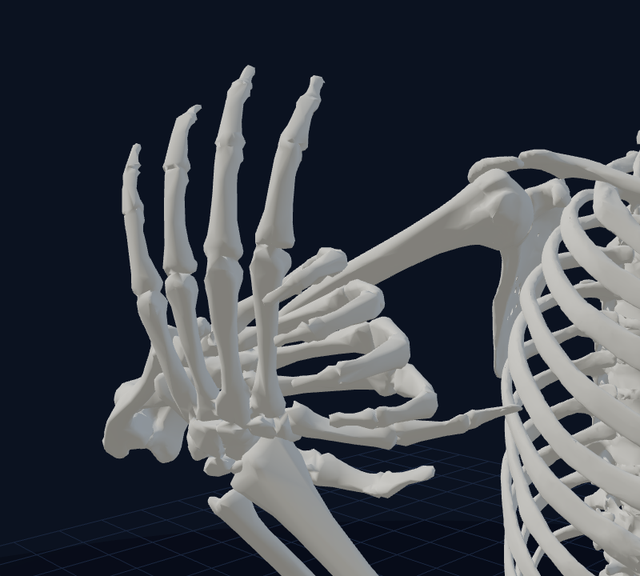
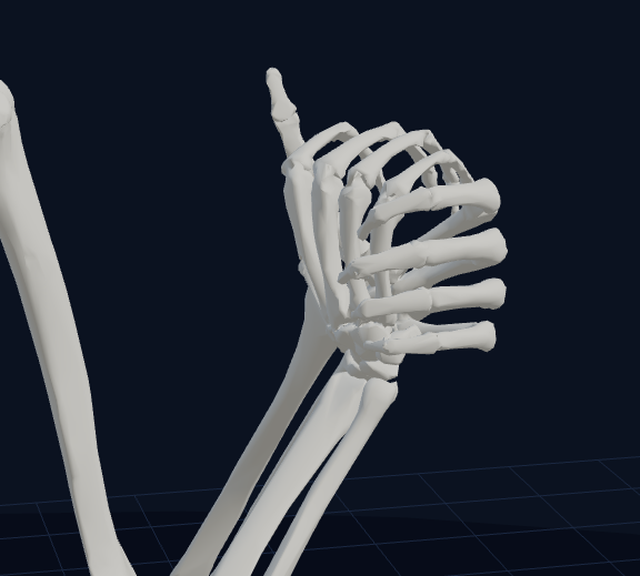
feat(#179): la prise d'après la photo de référence — pouce du guideur vers le ciel, ses doigts sur le tranchant de la main de la suiveuse, dressée
Même emboîtement (quatre doigts de la suiveuse entre le pouce et l'index du guideur), tourné d'un quart de tour
dans le plan des paumes : GRIP.upright.lift, doigts du guideur refermés (second temps de la sonde). Os au contact
sans se traverser dans les cinq figures ; poignets : guideur 29°, suiveuse 53° sur place. Dossier refilmé.

diff --git a/src/upperBody.ts b/src/upperBody.ts
@@ -103,10 +103,13 @@ interface Arm {
  * line to his index, towards where her forearm comes from (rad). */
 export const GRIP = { shift: 0.012, gap: 0.004, wrist: 1.0, swivel: 0.7,
   /** Hands held up at the couple's side (#179, candidate `?essai=mainsCote`; owner, 23 November 2026).
-   * The leader's hand points to the sky; `palm`: where his palm faces, in his chest frame (halfway between his
-   * right and the follower). The follower's hand lies across his palm, her four fingers between his thumb and
-   * his index, closed around the web of his thumb, palm against palm, her thumb under his: no bone goes through
-   * another (found by search on the two hands' bones, scripts/mesure_essai_mains.mjs measures it).
+   * As in a ballroom hold (reference photograph, see the election's README): the leader's thumb points to the sky,
+   * his fingers go forwards, raised by `lift` (rad), and close in one block round the edge of the follower's hand,
+   * onto its back; `palm`: where his palm is asked to face, in his chest frame (the palm's normal leans 9° towards
+   * the fingers: measured, it faces halfway between his right and the follower). The follower's hand stands up
+   * against his palm, her four fingers between his thumb and his index, closed around the web of his thumb, palm
+   * against palm, her thumb under his: no bone goes through another (found by search on the two hands' bones,
+   * scripts/search_prise_mains.mjs; scripts/mesure_essai_mains.mjs measures it).
    * In the frame of his hand (R towards his thumb, U along his fingers, N out of his palm): `across`: her
    * fingers from U towards R (rad); `at`: her palm's centre from his, along R, U, N (m); `roll`, `pitch`: her
    * hand around her own fingers, then her fingers into his palm (rad). `his`, `hers`: the two hands' shapes.
@@ -114,8 +117,9 @@ export const GRIP = { shift: 0.012, gap: 0.004, wrist: 1.0, swivel: 0.7,
    * `drop`: how far under the line of her hand the follower's elbow tends (m); `wrist`: how far her wrist may bend
    * in this hold (rad): the hands are close to both bodies, her forearm comes steeply to her hand. */
   upright: {
-    palm: [-1, 0, 1] as V3, across: 1.373, at: [0.013, -0.01, 0.025] as V3, roll: 0.12, pitch: -0.116,
-    his: { fingers: [0.14, 0.16, 0.1], thumb: [1.55, 0.05, 0.1] } as HandShape,
+    palm: [-1, 0, 0.73] as V3, across: 1.373, at: [0.013, -0.01, 0.025] as V3, roll: 0.12, pitch: -0.116,
+    lift: 0.5,
+    his: { fingers: [1.35, 0.437, 0.913], thumb: [1.55, 0.05, 0.1] } as HandShape,
     hers: { fingers: [1, 1.011, 0.306], thumb: [0.459, 0, 0.573] } as HandShape,
     elbow: [0.25, -1, 0.1] as V3, drop: 0.1, wrist: 1.25,
   } };
@@ -259,9 +263,12 @@ export class UpperBody {
         const along = his.radial.clone().applyAxisAngle(facing, swivel);
         posed = this.take(this.arms[s], his.palm.clone().addScaledVector(his.radial, GRIP.shift).addScaledVector(his.normal, GRIP.gap), facing, along, rigElbow);
       } else if (upright && !follower) {
-        // The leader's hand: the palm on the rig's point, facing between his right and her, the fingers to the sky.
+        // The leader's hand: the palm on the rig's point, facing between his right and her; his thumb to the sky, his
+        // fingers forwards (a left hand: fingers = thumb's side × palm's normal), raised by `lift`.
         const facing = new THREE.Vector3(...GRIP.upright.palm).transformDirection(r.chest.matrixWorld).setY(0).normalize();
-        posed = this.take(this.arms[s], target, facing, new THREE.Vector3(0, 1, 0), low());
+        const sky = new THREE.Vector3(0, 1, 0), lift = GRIP.upright.lift;
+        const along = new THREE.Vector3().crossVectors(sky, facing).normalize().multiplyScalar(Math.cos(lift)).addScaledVector(sky, Math.sin(lift));
+        posed = this.take(this.arms[s], target, facing, along, low());
       } else if (hold === "free" && folded) {
         // #182: the rig's frame, alone, folds its raised forearm flat on the arm, the hand on the shoulder. No elbow
         // does that: the forearm rises from the rig's elbow, as the frame means it, the palm inwards.

diff --git a/src/essais.ts b/src/essais.ts
@@ -13,9 +13,10 @@
 export const ESSAIS = {
   /** Témoin : ne change rien. Sert à filmer le comportement actuel image par image hors du mode paire. */
   temoin: "témoin : comportement actuel",
-  /** #179 : les mains jointes tenues sur le côté du couple, leur milieu à hauteur d'épaule ; main du guideur vers le
-   * ciel, paume à mi-chemin entre sa droite et la suiveuse ; main de la suiveuse emboîtée en travers, ses quatre
-   * doigts entre le pouce et l'index du guideur (précisions du 23 novembre 2026). */
+  /** #179 : les mains jointes tenues sur le côté du couple, leur milieu à hauteur d'épaule ; pouce du guideur vers le
+   * ciel, paume à mi-chemin entre sa droite et la suiveuse, ses doigts refermés sur le tranchant de la main de la
+   * suiveuse ; main de la suiveuse dressée, ses quatre doigts entre le pouce et l'index du guideur (précisions du
+   * 23 novembre 2026, photo de référence d'une tenue de salon). */
   mainsCote: "mains jointes sur le côté du couple, leur milieu à hauteur d'épaule, emboîtées",
   /** #179 : les mains jointes sur le côté du couple, plus bas et plus près, coudes détendus. */
   mainsBasses: "mains jointes sur le côté du couple, plus bas",

diff --git a/docs/elections/2026-11-22-mains/README.md b/docs/elections/2026-11-22-mains/README.md
@@ -23,34 +23,40 @@ Position fermée : bustes face à face, pieds proches. Dossier ouvert le 22 nove
 Après la première planche (B était alors 6 cm sous les épaules) :
 
 - **Place** : les mains se lèvent légèrement au-dessus de l'épaule, leur milieu à hauteur d'épaule ; la paume du
-  guideur regarde à mi-chemin entre sa droite et la suiveuse, sa main pointe vers le ciel. Place validée sur gros plans.
+  guideur regarde à mi-chemin entre sa droite et la suiveuse. Place validée sur gros plans.
 - **Emboîtement** : les doigts de chaque main, de l'index à l'auriculaire, font un seul bloc, comme dans une moufle :
   rien ne passe entre eux. Les quatre doigts de la suiveuse passent entre le pouce et l'index du guideur, paume contre
   paume ; son pouce reste sous celui du guideur. Ni os ni muscles ne se traversent.
+- **Référence** : une [photo d'une tenue de salon, Wikimedia Commons](https://commons.wikimedia.org/wiki/File:Ballroom_dance_exhibition.jpg), vue de derrière la main de la danseuse. Sa main est dressée, ses doigts passés
+  entre le pouce et l'index du danseur ; la main du danseur est en travers, pouce vers le haut, ses quatre doigts
+  refermés sur le tranchant de la main de la danseuse, jusque sur le dos de sa main.
 
-Fait dans le candidat B (`?essai=mainsCote`) : la main de la suiveuse est en travers de celle du guideur, ses quatre
-doigts refermés autour de la palmure de son pouce. Les constantes viennent d'une recherche sur les os des deux mains
+Fait dans le candidat B (`?essai=mainsCote`) : le pouce du guideur pointe vers le ciel, ses doigts vont vers l'avant,
+à 29° au-dessus de l'horizontale, et se referment d'un seul bloc sur le tranchant de la main de la suiveuse ; la main
+de la suiveuse est dressée contre sa paume, ses quatre doigts refermés autour de la palmure de son pouce. Les deux
+mains gardent l'emboîtement trouvé le matin (la main de la suiveuse à 79° des doigts du guideur) ; l'ensemble a tourné
+d'un quart de tour dans le plan des paumes. Les constantes viennent d'une recherche sur les os des deux mains
 (`scripts/search_prise_mains.mjs`). Mesures (`ESSAI=mainsCote node scripts/mesure_essai_mains.mjs`) :
 
 | | Sur place | Dans les figures |
 |---|---|---|
-| Milieu des mains, par rapport à la moyenne des deux épaules | 0,6 cm dessous ; haut des doigts du guideur 9 cm au-dessus | 0,6 à 0,8 cm dessous |
-| Paume du guideur, par rapport à sa droite | 45° | 43° à 46° |
-| Doigts du guideur, par rapport à la verticale | 0° | jusqu'à 10° (sorties) |
-| Main de la suiveuse, par rapport aux doigts du guideur | en travers, à 79° vers son pouce | 69° à 79° |
-| Paumes | face à face à 7° près, centres à 3 cm | à 2° à 15° près |
-| Os des deux mains et des avant-bras (rayons d'os ôtés) | au contact, sans se traverser (jeu 0 cm) | de même, sauf dans la sortie fille : 0,3 cm de recouvrement par instants |
-| Poignets | guideur 46° à 48° ; suiveuse 61° à 63° | suiveuse jusqu'à 72°, la limite de cette prise |
+| Milieu des mains, par rapport à la moyenne des deux épaules | 1,6 cm dessous ; haut des doigts 2,8 cm au-dessus | 1,6 à 2 cm dessous |
+| Paume du guideur, par rapport à sa droite | 45° | 39° à 46° |
+| Doigts du guideur, par rapport à la verticale | 61° (29° au-dessus de l'horizontale), pouce vers le ciel | 57° à 61° |
+| Main de la suiveuse, par rapport à la verticale | 19° | 19° à 24° |
+| Paumes | face à face à 7° près, centres à 3 cm | à 3° à 7° près |
+| Os des deux mains et des avant-bras (rayons d'os ôtés) | au contact, sans se traverser (jeu 0 cm) | de même dans les cinq figures |
+| Poignets | guideur 29° ; suiveuse 53° | guideur 13° à 57° ; suiveuse 35° à 72°, la limite de cette prise |
 
 Pour comparaison, dans les attitudes A et C (prise du 22 novembre, inchangée) les os des deux mains se recouvrent de
 1,1 à 1,6 cm.
 
-L'emboîtement de près, vu de derrière la main du guideur (os, puis muscles) :
+L'emboîtement de près, vu de derrière la main de la suiveuse, comme sur la photo de référence (os, puis muscles) :
 
 | ![os](mains-B-emboitement-os.png) | ![muscles](mains-B-emboitement-muscles.png) |
 |---|---|
 
-Mêmes images : adresse de B avec `beat=2`, `campos=0.637,1.32,-0.187&camtgt=0.34,1.27,0.11`, `muscles=0` ou `1`.
+Mêmes images : adresse de B avec `beat=2`, `campos=0.1,1.5,1.05&camtgt=0.33,1.27,0.11`, `muscles=0` ou `1`.
 
 ## Trois attitudes filmables
 
@@ -62,7 +68,7 @@ inertes sans le paramètre : l'application ne change pas. Images refaites le 23 
 |---|---|---|
 | ![A](mains-A-entre-les-poitrines.gif) | ![B](mains-B-sur-le-cote.gif) | ![C](mains-C-sur-le-cote-plus-bas.gif) |
 | ![A](mains-A-entre-les-poitrines.png) | ![B](mains-B-sur-le-cote.png) | ![C](mains-C-sur-le-cote-plus-bas.png) |
-| Entre les deux épaules, 6 cm sous elles : mains cachées entre les cages thoraciques, coudes repliés jusqu'à 27°. | 20 cm vers l'extérieur du couple, le milieu des mains à hauteur d'épaule : main du guideur dressée, paume à mi-chemin entre sa droite et la suiveuse ; main de la suiveuse emboîtée en travers, ses quatre doigts entre son pouce et son index. | 14 cm vers l'extérieur, 14 cm plus bas : mains à hauteur de taille, avant-bras presque horizontaux, coudes détendus. |
+| Entre les deux épaules, 6 cm sous elles : mains cachées entre les cages thoraciques, coudes repliés jusqu'à 27°. | 20 cm vers l'extérieur du couple, le milieu des mains à hauteur d'épaule : pouce du guideur vers le ciel, paume à mi-chemin entre sa droite et la suiveuse, ses doigts refermés sur le tranchant de la main de la suiveuse ; main de la suiveuse dressée, ses quatre doigts entre son pouce et son index. | 14 cm vers l'extérieur, 14 cm plus bas : mains à hauteur de taille, avant-bras presque horizontaux, coudes détendus. |
 
 La caméra est du côté des mains jointes : le guideur est à droite de l'image, la suiveuse à gauche. Les étiquettes de
 rôle du bas de l'image, fixes, diraient l'inverse : elles sont rognées.
@@ -99,5 +105,5 @@ l'emboîtement décrit plus haut. Les doigts ne se serrent pas latéralement.
 
 - Quelles attitudes garder (A, B, C, d'autres), et laquelle par défaut en kizomba. Question posée le 23 novembre 2026
   avec ces images ; proposition de l'agent : B par défaut, C gardée comme attitude, A retirée. Le propriétaire a
-  corrigé B (ci-dessus : place, puis emboîtement) ; le choix de l'attitude par défaut reste à confirmer.
+  corrigé B (ci-dessus : place, emboîtement, puis photo de référence) ; le choix de l'attitude par défaut reste à confirmer.
 - La prise, une fois posée : à juger sur des gros plans.

diff --git a/docs/regles-proprietaire.md b/docs/regles-proprietaire.md
@@ -60,7 +60,7 @@ seuil chiffré : ils n'y figurent pas.
 | R19 | Cadre leader/suiveur : points de contact (avant-bras, biceps, omoplate, bassin, aisselle, coude, épaule, plexus) et intentions de guidage | Mains qui se rejoignent, main D du leader sur l'omoplate du suiveur, contraintes de contact | [cadre](cadre/spec-implementation.md) (#40) | oui pour les bras (#77 : mains sur l'omoplate et mains jointes, IK) ; contraintes sur bustes et bassins à venir |
 | R20 | « Ces points de contact vont ajouter des contraintes qui vont aider à converger vers les bons mouvements de danse » | Les contacts contraignent bras, bustes et bassins | [cadre](cadre/spec-implementation.md) | non |
 | R35 | Le bras droit du guideur ne se baisse pas (22 nov.) | Dans toutes les figures en paire, la main droite du guideur reste au-dessus de sa taille, même hors du dos de la suiveuse ; elle quitte le dos sans saut | [cadre](cadre/spec-implementation.md#le-bras-droit-du-guideur-ne-se-baisse-pas-178-22-novembre-2026) (#178) | oui (`test_cadre.mjs` : jamais sous −15 cm dans le repère de sa poitrine ; saut du coude 31 → 9 cm) |
-| R36 | La main droite de la suiveuse dans la main gauche du guideur, en position fermée : plusieurs attitudes (hauteur du coude, ouverture) ; prise : phalanges serrées, pouce ouvert presque à angle droit, main de la suiveuse posée en travers de celle du guideur (bas de sa paume au bord de la main du guideur), ses phalanges refermées autour de l'index du guideur, pouces croisés (22 nov.) ; dans l'attitude sur le côté, les mains se lèvent légèrement au-dessus de l'épaule (leur milieu à hauteur d'épaule), la main du guideur pointe vers le ciel et sa paume regarde à mi-chemin entre sa droite et la suiveuse ; emboîtement : les doigts de l'index à l'auriculaire font un seul bloc (comme dans une moufle, rien ne passe entre eux), les quatre doigts de la suiveuse passent entre le pouce et l'index du guideur, paume contre paume, son pouce sous le sien, sans qu'os ni muscles se traversent (23 nov.) | Mains visibles, hors des cages thoraciques ; prise conforme sur gros plan | [dossier](elections/2026-11-22-mains/README.md) (#179) | attitudes filmables (`?essai=`) ; doigts et poignet articulés avec `haut=1`, main de la suiveuse en travers de celle du guideur ([spec](spec-haut-du-corps.md)) ; attitude sur le côté (`?essai=mainsCote`, `scripts/mesure_essai_mains.mjs`) : milieu des mains à 0,6 cm sous les épaules, paume du guideur à 45° de sa droite, ses doigts à la verticale, main de la suiveuse en travers (79°), os des deux mains au contact sans se traverser sur place (0,3 cm de recouvrement par instants dans la sortie fille) ; à juger sur gros plans |
+| R36 | La main droite de la suiveuse dans la main gauche du guideur, en position fermée : plusieurs attitudes (hauteur du coude, ouverture) ; prise : phalanges serrées, pouce ouvert presque à angle droit, main de la suiveuse posée en travers de celle du guideur (bas de sa paume au bord de la main du guideur), ses phalanges refermées autour de l'index du guideur, pouces croisés (22 nov.) ; dans l'attitude sur le côté, les mains se lèvent légèrement au-dessus de l'épaule (leur milieu à hauteur d'épaule), la paume du guideur regarde à mi-chemin entre sa droite et la suiveuse ; emboîtement : les doigts de l'index à l'auriculaire font un seul bloc (comme dans une moufle, rien ne passe entre eux), les quatre doigts de la suiveuse passent entre le pouce et l'index du guideur, paume contre paume, son pouce sous le sien, sans qu'os ni muscles se traversent ; référence, une photo de tenue de salon : main de la suiveuse dressée, pouce du guideur vers le ciel, ses doigts refermés sur le tranchant de la main de la suiveuse (23 nov.) | Mains visibles, hors des cages thoraciques ; prise conforme sur gros plan | [dossier](elections/2026-11-22-mains/README.md) (#179) | attitudes filmables (`?essai=`) ; doigts et poignet articulés avec `haut=1`, main de la suiveuse en travers de celle du guideur ([spec](spec-haut-du-corps.md)) ; attitude sur le côté (`?essai=mainsCote`, `scripts/mesure_essai_mains.mjs`) : milieu des mains à 1,6 cm sous les épaules, paume du guideur à 45° de sa droite, son pouce vers le ciel et ses doigts à 29° au-dessus de l'horizontale, main de la suiveuse dressée (à 19° de la verticale), os des deux mains au contact sans se traverser dans les cinq figures ; à juger sur gros plans |
 | R37 | L'avant-bras ou la main gauche de la suiveuse est posé sur l'épaule droite du guideur, contre le devant ou le côté de l'épaule ; son coude gauche cherche le contact avec le bras droit du guideur, sur lequel elle s'appuie quand il l'élève par l'épaule ou l'aisselle (boléro, etc.) (22 nov.) | Main sur l'épaule quand elle est à portée ; coude près du bras du guideur | [cadre](cadre/spec-implementation.md) (#180) | oui pour la pose (`test_cadre.mjs` : coude à 10–11 cm de l'axe du bras en moyenne) ; l'appui quand le guideur l'élève reste à faire |
 
 ## Musique

diff --git a/docs/spec-haut-du-corps.md b/docs/spec-haut-du-corps.md
@@ -77,28 +77,31 @@ Ces amplitudes sont des paramètres de ce modèle, pas des normes cliniques ni d
   s'articule pour cela (jusqu'à 57° hors de l'axe de l'avant-bras), et sa main peut tourner de 40° sur la paume du
   guideur vers la ligne de son propre avant-bras.
 - **Attitude sur le côté, mains emboîtées** (candidat `?essai=mainsCote`, `GRIP.upright` ; précisions du propriétaire,
-  23 novembre 2026) : la paume du guideur est au point du rig, ses doigts vers le ciel, tournée à mi-chemin entre sa
-  droite et la suiveuse (`palm`) ; son poignet s'articule lui aussi, son pouce s'ouvre à angle droit (`his`). La main
-  de la suiveuse se place dans le repère de la sienne : en travers (`across`, 79° de ses doigts vers son pouce), paume
+  23 novembre 2026, avec une [photo d'une tenue de salon, Wikimedia Commons](https://commons.wikimedia.org/wiki/File:Ballroom_dance_exhibition.jpg) en référence) : la paume du guideur est au point du rig, tournée à
+  mi-chemin entre sa droite et la suiveuse (`palm`) ; son pouce pointe vers le ciel, ses doigts vont vers l'avant, à 29°
+  au-dessus de l'horizontale (`lift`), et se referment d'un seul bloc sur le tranchant de la main de la suiveuse,
+  jusque sur le dos de sa main ; son poignet s'articule lui aussi, son pouce s'ouvre à angle droit (`his`). La main de
+  la suiveuse se place dans le repère de la sienne : dressée, à 79° de ses doigts vers son pouce (`across`), paume
   contre paume (`at`, `roll`, `pitch`), ses quatre doigts d'un seul bloc entre son pouce et son index, refermés autour
   de la palmure, son pouce sous le sien (`hers`). Aucun os ne traverse l'autre main : les constantes viennent d'une
-  recherche sur les os des deux mains (`scripts/search_prise_mains.mjs`, graine fixe). Son coude tend derrière sa
-  main, un peu plus bas (`drop`) ; son poignet peut plier jusqu'à 72° dans cette prise (`wrist`), parce que les mains
-  sont près des deux corps et que son avant-bras arrive presque de face.
+  recherche sur les os des deux mains (`scripts/search_prise_mains.mjs`, graine fixe ; second temps : les doigts du
+  guideur). Son coude tend sous sa main (`drop`) ; son poignet peut plier jusqu'à 72° dans cette prise (`wrist`) : les
+  mains sont près des deux corps, son avant-bras arrive par le dos de sa main, qui pousse comme contre un mur.
 
   | `ESSAI=mainsCote node scripts/mesure_essai_mains.mjs` | Sur place | Dans les figures |
   |---|---|---|
-  | Milieu des mains / moyenne des épaules | 0,6 cm dessous ; haut des doigts du guideur 9 cm au-dessus | 0,6 à 0,8 cm dessous |
-  | Paume du guideur / sa droite | 45° | 43° à 46° |
-  | Doigts du guideur / verticale | 0° | jusqu'à 10° (sorties) |
-  | Main de la suiveuse / doigts du guideur | 79° | 69° à 79° |
-  | Paumes face à face | à 7° près | à 2° à 15° près |
-  | Jeu entre les os des deux mains et des avant-bras | 0 cm (contact) | 0 cm ; −0,3 cm par instants dans la sortie fille |
-  | Poignets | guideur 46° à 48°, suiveuse 61° à 63° | suiveuse jusqu'à 72° (limite de la prise) |
+  | Milieu des mains / moyenne des épaules | 1,6 cm dessous ; haut des doigts 2,8 cm au-dessus | 1,6 à 2 cm dessous |
+  | Paume du guideur / sa droite | 45° | 39° à 46° |
+  | Doigts du guideur / verticale | 61°, pouce vers le ciel | 57° à 61° |
+  | Main de la suiveuse / verticale | 19° | 19° à 24° |
+  | Paumes face à face | à 7° près | à 3° à 7° près |
+  | Jeu entre les os des deux mains et des avant-bras | 0 cm (contact) | 0 cm dans les cinq figures |
+  | Poignets | guideur 29°, suiveuse 53° | guideur 13° à 57°, suiveuse 35° à 72° (limite de la prise) |
 
   Avec la prise du 22 novembre (attitudes A et C), ces os se recouvrent de 1,1 à 1,6 cm. Essais écartés le même jour :
-  paume du guideur vers sa seule droite, puis les deux mains dressées l'une contre l'autre (les doigts de la suiveuse
-  traversaient ceux du guideur).
+  paume du guideur vers sa seule droite ; les deux mains dressées l'une contre l'autre (les doigts de la suiveuse
+  traversaient ceux du guideur) ; la main du guideur vers le ciel et celle de la suiveuse en travers (même emboîtement,
+  un quart de tour plus tôt : son poignet pliait de 61° à 63° et la prise ne ressemblait pas à la photo).
 - La caméra s'approche jusqu'à 35 cm quand l'option est active (1,8 m sinon), pour voir les mains.
 
 ## Mesures (`scripts/test_upper_body.mjs`, GLB réel, seizième de temps, kizomba)

diff --git a/CONTEXT.md b/CONTEXT.md
@@ -24,8 +24,10 @@ dépôt (ce fichier, `docs/spec-*.md`, `docs/adr/*`, `docs/TASKS.md`, README) et
   seul bloc, entre le pouce et l'index du guideur, paume contre paume, son pouce sous le sien, sans qu'os ni muscles
   se traversent. C'est fait dans le candidat `?essai=mainsCote` (`CADRE.handsSide`, `GRIP.upright` ; sonde
   `scripts/search_prise_mains.mjs`, mesures `scripts/mesure_essai_mains.mjs`) : os des deux mains au contact sans se
-  traverser sur place. Reste : 0,3 cm de recouvrement par instants dans la sortie fille (poignet de la suiveuse à sa
-  limite, 72° dans cette prise) ; les muscles ne sont vérifiés qu'à l'œil ; les attitudes A et C gardent la prise du
+  traverser. Puis il a donné une photo de tenue de salon en référence : la prise a tourné d'un quart de tour dans le plan
+  des paumes — pouce du guideur vers le ciel, ses doigts refermés sur le tranchant de la main de la suiveuse, dont la
+  main est dressée (`GRIP.upright.lift`) ; os au contact sans se traverser dans les cinq figures. Reste : le poignet de
+  la suiveuse plie de 53° sur place et jusqu'à 72° (limite de cette prise) ; les muscles ne sont vérifiés qu'à l'œil ; les attitudes A et C gardent la prise du
   22 novembre, où les os se recouvrent ; le choix de l'attitude par défaut n'est pas fait (PR #181 en brouillon).
 - **Règle R37 (#180)** : la main gauche de la suiveuse sur l'épaule droite du guideur (devant et côté), son coude vers
   le bras droit du guideur (`CADRE_SITES.shoulderR`, `armR`) : coude à 10 à 11 cm de l'axe de son bras en moyenne.

diff --git a/docs/cadre/spec-implementation.md b/docs/cadre/spec-implementation.md
@@ -382,7 +382,7 @@ change pas tant qu'il n'a pas tranché : [dossier](../elections/2026-11-22-mains
 Précision du 23 novembre 2026 pour l'attitude sur le côté (`mainsCote`, `CADRE.handsSide`) : les mains se lèvent
 légèrement au-dessus de l'épaule, leur milieu à hauteur d'épaule. Le point des mains jointes est donc 1 cm sous la
 moyenne des deux épaules (le centre de la paume ; le milieu de la main est plus haut), 20 cm vers l'extérieur du
-couple. L'orientation des mains (main du guideur vers le ciel, paume à mi-chemin entre sa droite et la suiveuse) et
+couple. L'orientation des mains (pouce du guideur vers le ciel, paume à mi-chemin entre sa droite et la suiveuse) et
 leur emboîtement relèvent du haut du corps
 anatomique : [spec](../spec-haut-du-corps.md).
 
